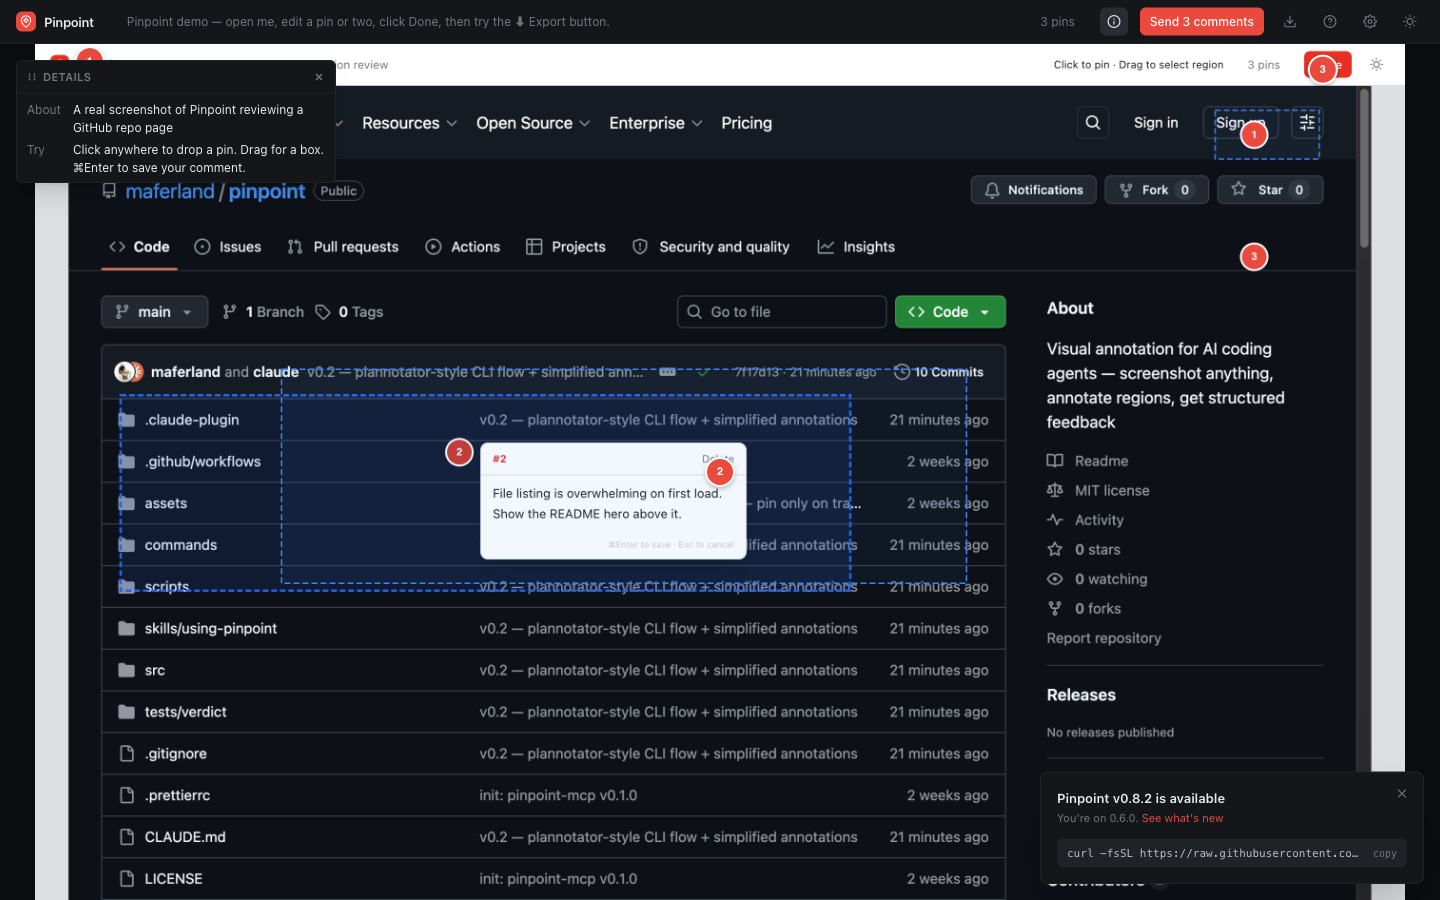
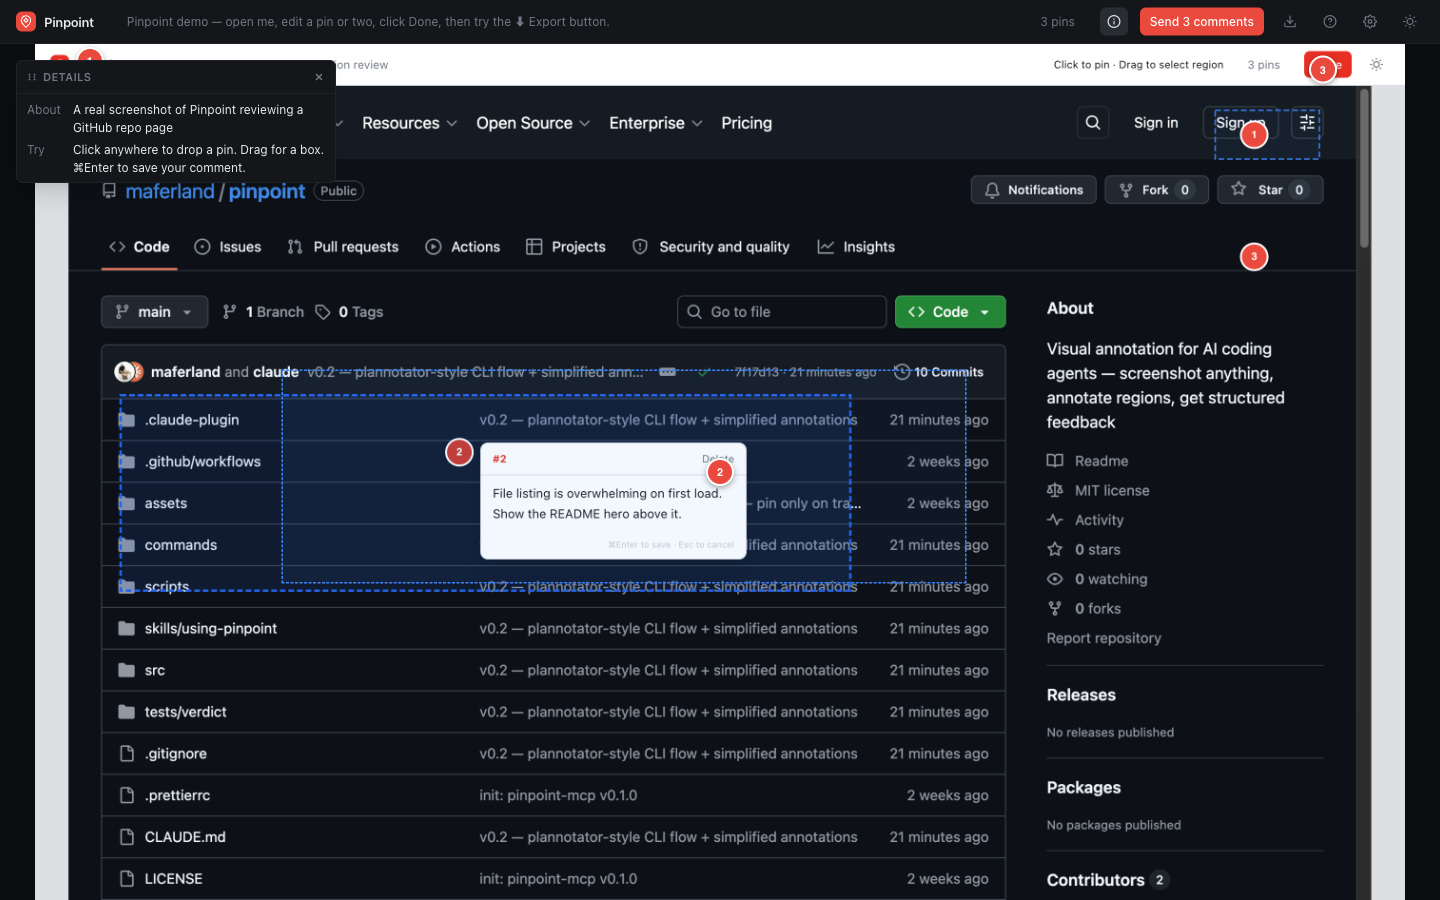
site: r6 round of fixes from pinpoint review
- Dark screenshot was actually the light one. Regenerated by spinning up
  pinpoint demo + driving the in-app theme toggle (the only way to flip
  React's theme state); confirmed the toolbar bg rendered dark before
  capture. Replaces site/assets/screenshot-dark.png.
- Lede paragraph was capped at 640px max-width and wrapped well before
  the column edge. Removed the cap so it fills the section's container.
- Rewrote "How it works" from 4 mechanical steps to 3 agent-centric ones:
    1. The agent takes a screenshot
    2. You pin what's wrong
    3. The agent fixes what you pointed at
  Drops the "hit Send" / "JSON" / "round-trip under a minute" detail that
  belongs in docs, not a landing-page intro.
- Smooth scroll on anchors (html { scroll-behavior: smooth } + scroll-
  padding-top: 72px to clear the sticky header).
- Section reveal: each non-hero section fades up the first time it scrolls
  into view, via IntersectionObserver. Sections already on screen at load
  show instantly so there's no flash. Respects prefers-reduced-motion.

Changed region(s): [[0.7188, 0.84, 1.0, 1.0], [0.9062, 0.0622, 0.9375, 0.0933], [0.1875, 0.4044, 0.2188, 0.4356]]

diff --git a/site/index.html b/site/index.html
@@ -70,6 +70,7 @@
     .tk-num { color: var(--tk-num); }
     * { box-sizing: border-box; }
     html, body { margin: 0; padding: 0; }
+    html { scroll-behavior: smooth; scroll-padding-top: 72px; }
     body {
       background: var(--bg);
       color: var(--text);
@@ -101,9 +102,16 @@
       box-shadow: 0 6px 20px rgba(0,0,0,.04);
     }
 
+    /* Section reveal — IO marks each <section> .in-view as it scrolls past.
+       Hero is opted out so it shows immediately under the entrance animation
+       already on its children. */
+    section:not(.hero) { opacity: 0; transform: translateY(12px); transition: opacity .55s ease, transform .55s ease; }
+    section.in-view { opacity: 1; transform: translateY(0); }
+
     @media (prefers-reduced-motion: reduce) {
+      html { scroll-behavior: auto; }
       .hero h1, .hero .pitch, .hero .install, .hero-media,
-      .card, .brand-mark { animation: none !important; transition: none !important; }
+      .card, .brand-mark, section { animation: none !important; transition: none !important; transform: none !important; opacity: 1 !important; }
       .card:hover { transform: none; }
     }
 
@@ -250,7 +258,7 @@
       font-size: 28px; letter-spacing: -0.02em; margin: 0 0 12px;
       font-weight: 600;
     }
-    section .lede { color: var(--muted); margin: 0 0 32px; max-width: 640px; font-size: 17px; }
+    section .lede { color: var(--muted); margin: 0 0 32px; font-size: 17px; }
     .grid-2 { display: grid; gap: 24px; grid-template-columns: 1fr 1fr; }
     @media (max-width: 700px) { .grid-2 { grid-template-columns: 1fr; } }
     .card {
@@ -379,35 +387,28 @@
 <section id="how">
   <div class="container">
     <h2>How it works</h2>
-    <p class="lede">A slash command opens your browser. You annotate. The agent picks up where it left off, now with structured data.</p>
+    <p class="lede">Your agent drives. You point at what's wrong.</p>
 
     <div class="steps">
       <div class="step">
         <div class="n"></div>
         <div>
-          <strong>You take a screenshot</strong>
-          <span>Of whatever you're working on. A page in your dev server, a Storybook story, an iOS simulator, a Figma export.</span>
+          <strong>The agent takes a screenshot</strong>
+          <span>Of whatever it's building. A page in your dev server, a Storybook story, an iOS simulator — anywhere with pixels.</span>
         </div>
       </div>
       <div class="step">
         <div class="n"></div>
         <div>
-          <strong>Run <code>/pinpoint:review screenshot.png</code></strong>
-          <span>The browser opens. You click to drop pins, drag to draw boxes, type comments. ⌘Enter saves each one.</span>
+          <strong>You pin what's wrong</strong>
+          <span>Click to drop a pin, drag to draw a region, type your comment. Hit Send when you're done.</span>
         </div>
       </div>
       <div class="step">
         <div class="n"></div>
         <div>
-          <strong>Hit Send</strong>
-          <span>The agent gets structured JSON back. Coordinates as percentages (resolution-independent), comments as the source of truth.</span>
-        </div>
-      </div>
-      <div class="step">
-        <div class="n"></div>
-        <div>
-          <strong>The agent works each annotation as a discrete fix</strong>
-          <span>One task per pin. Round-trip is usually under a minute.</span>
+          <strong>The agent fixes what you pointed at</strong>
+          <span>Each pin becomes a task. The agent works through them and asks for another round of pins when it's ready.</span>
         </div>
       </div>
     </div>
@@ -528,6 +529,24 @@
     });
     cb.appendChild(btn);
   });
+
+  // Reveal sections as they scroll into view. Sections already visible on
+  // initial paint (e.g. the hero) are revealed immediately so there's no
+  // flash of empty content above the fold.
+  const reveal = (el) => { el.classList.add('in-view'); };
+  const isOnscreen = (el) => {
+    const r = el.getBoundingClientRect();
+    return r.top < window.innerHeight && r.bottom > 0;
+  };
+  const sections = [...document.querySelectorAll('section')];
+  sections.forEach((s) => { if (isOnscreen(s)) reveal(s); });
+
+  const io = new IntersectionObserver((entries) => {
+    for (const e of entries) {
+      if (e.isIntersecting) { reveal(e.target); io.unobserve(e.target); }
+    }
+  }, { rootMargin: '0px 0px -10% 0px', threshold: 0.05 });
+  sections.forEach((s) => { if (!s.classList.contains('in-view')) io.observe(s); });
 </script>
 
 </body>